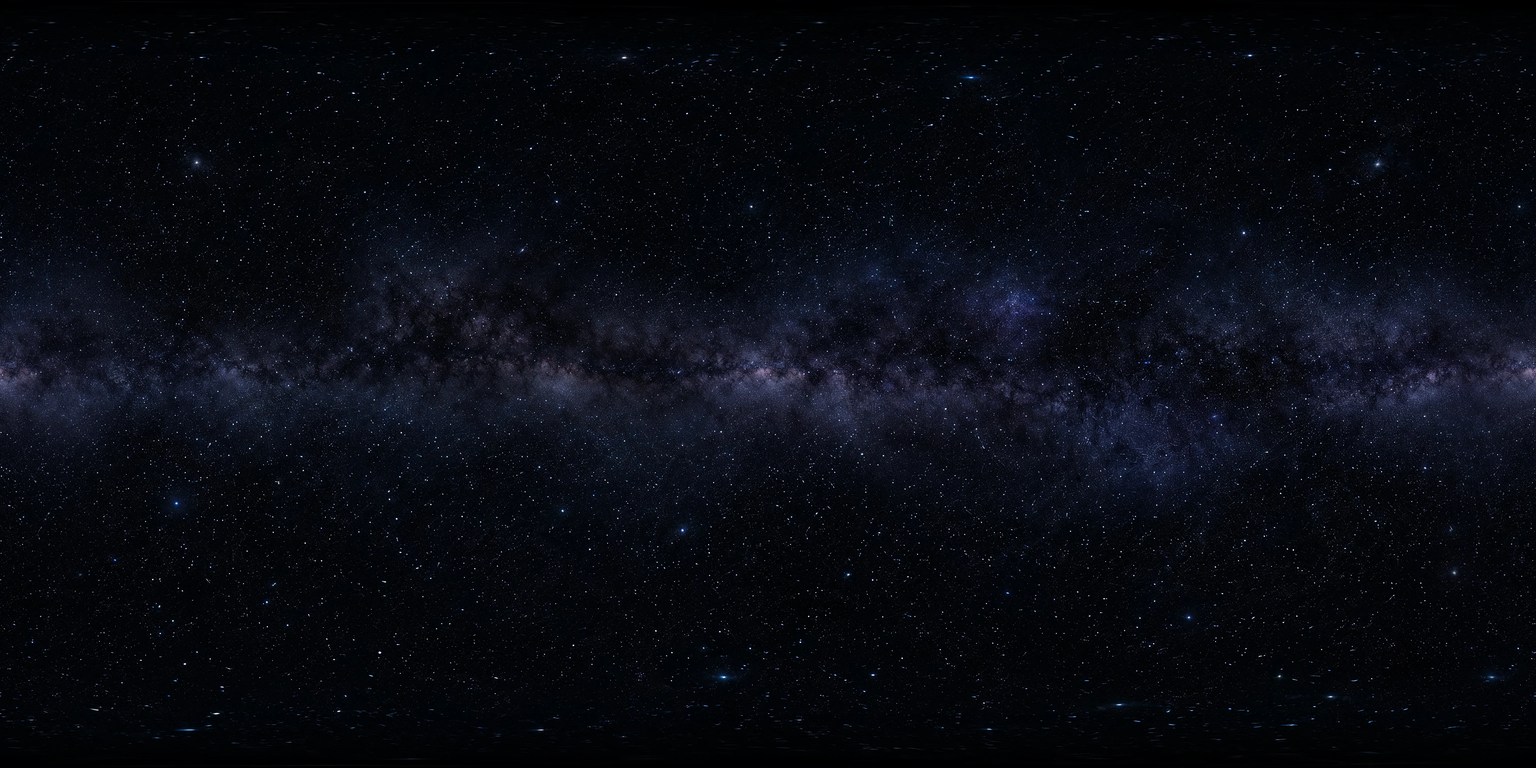
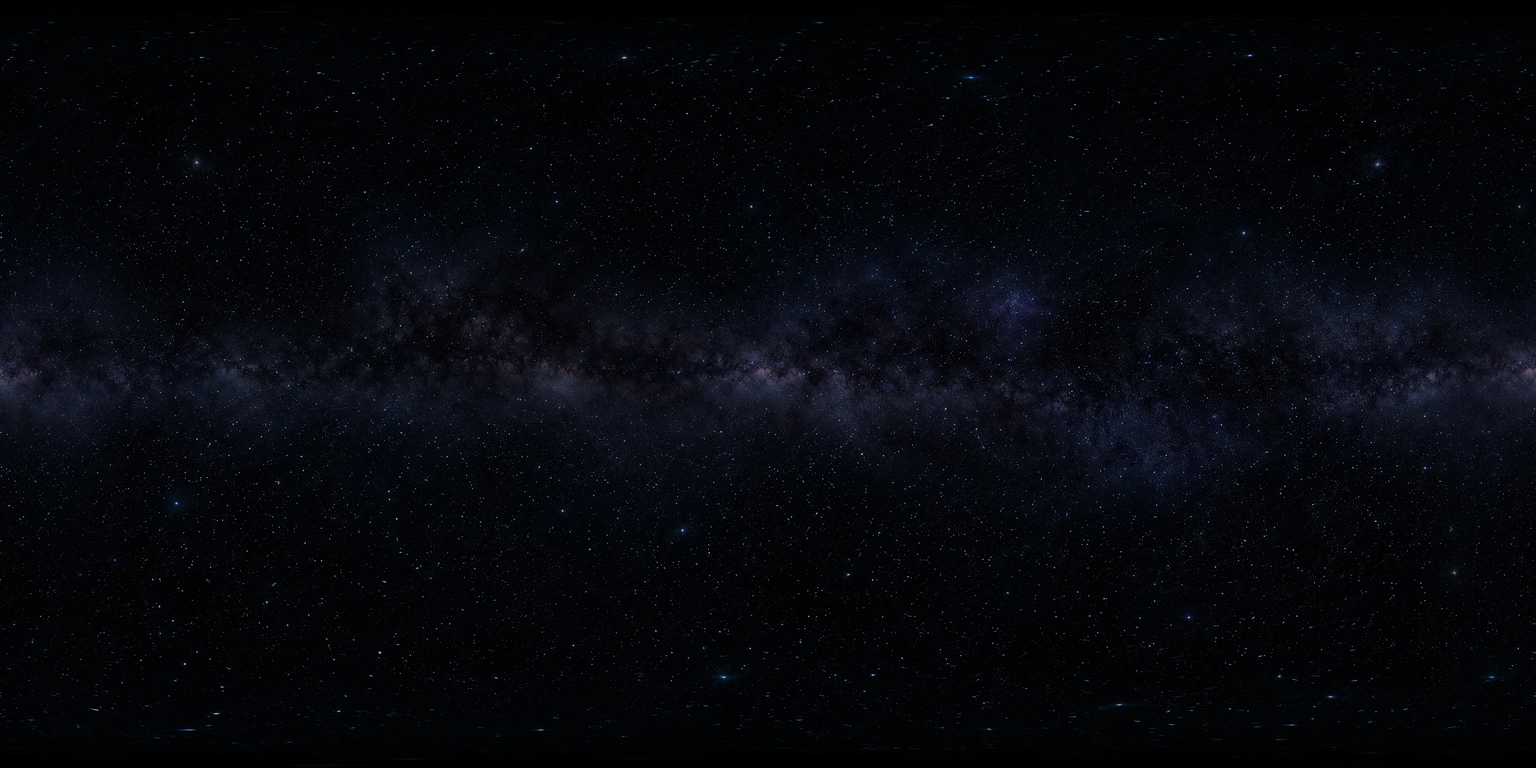
Darken the skybox by 30%

diff --git a/index.html b/index.html
@@ -1096,7 +1096,7 @@ function updateShocks(dt) {
 function loadSkybox() {
   // 고화질 + 큰 텍스처를 지원하면 6K(별이 더 작고 선명), 아니면 4K
   const big = gfx === 'high' && renderer.capabilities.maxTextureSize >= 8192;
-  new THREE.TextureLoader().load(big ? 'assets/skybox-6k.webp?v=1' : 'assets/skybox.webp?v=3', tex => {
+  new THREE.TextureLoader().load(big ? 'assets/skybox-6k.webp?v=2' : 'assets/skybox.webp?v=4', tex => {
     tex.mapping = THREE.EquirectangularReflectionMapping;
     scene.background = tex;
     try {
